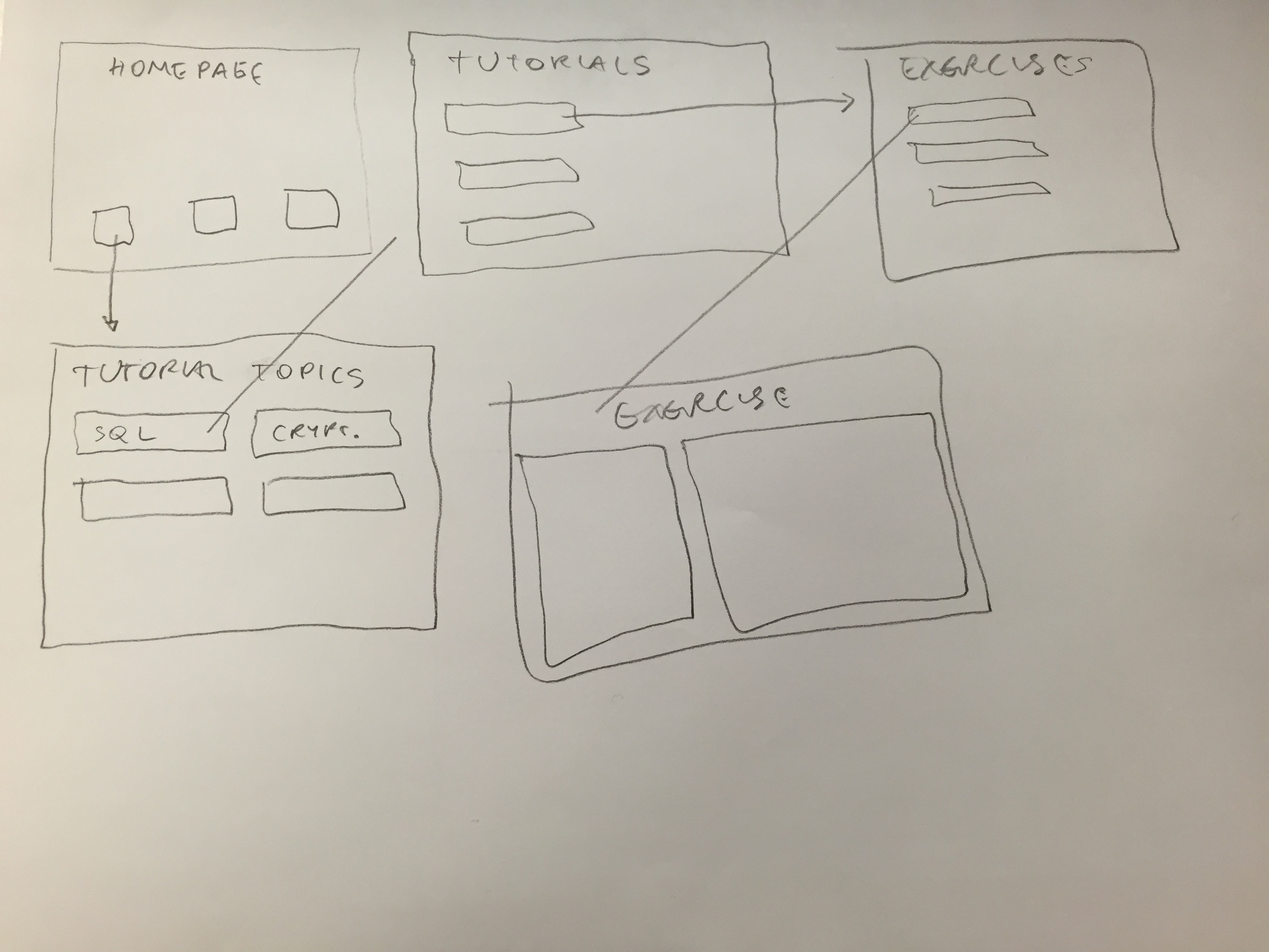
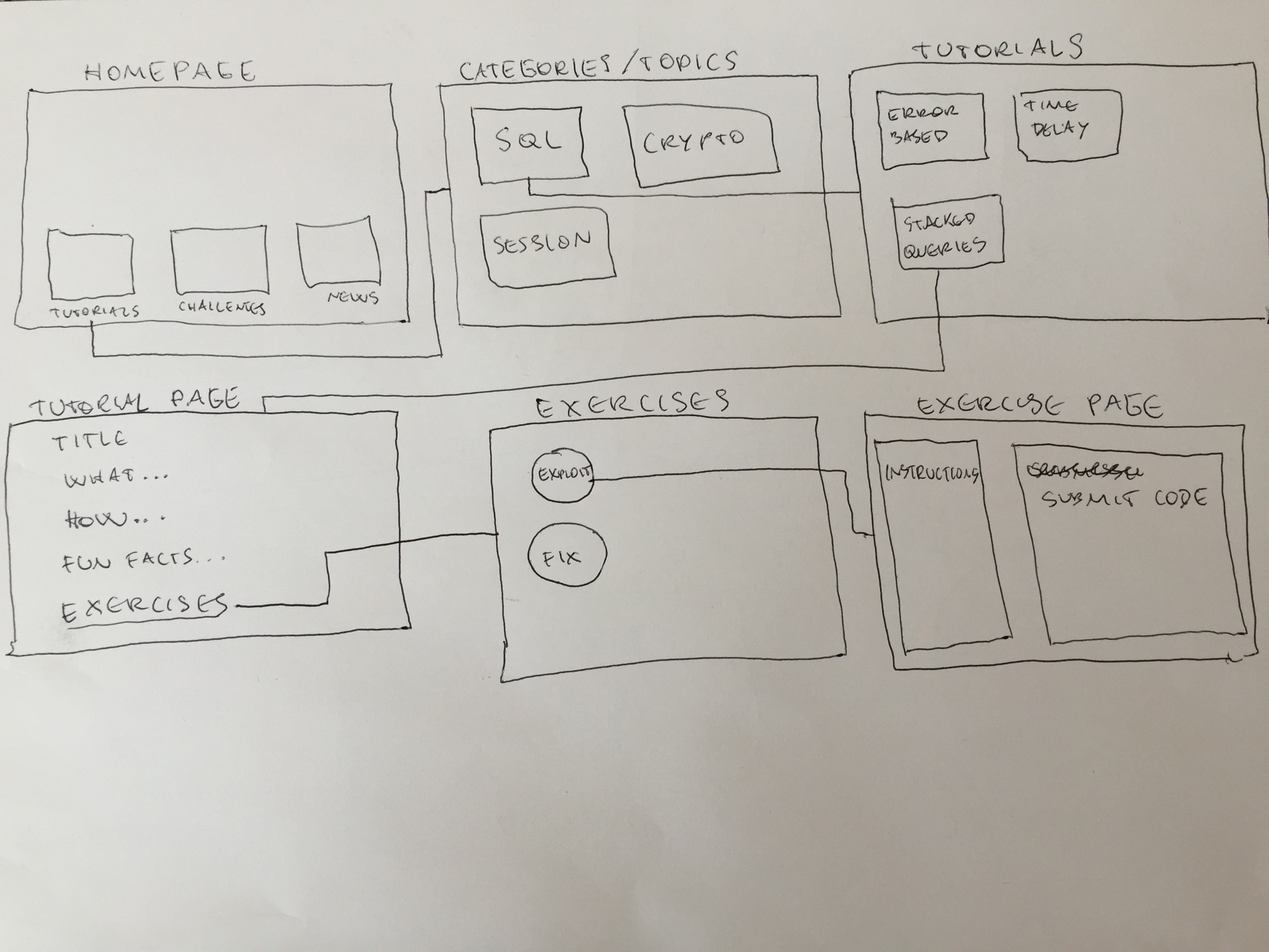
Update UserController.js and Tutorial_Architecture.jpg
Updated architecture diagram to add missing section.

Updated UserController to also handle login. For example:

1. Create a test user/password using following URL:

localhost:1337/user/create?username=logintest&password=test1234

2. Attempt to login as user not in database:

localhost:1337/user/login?username=wronglogin&password=test1234

returns
{
  "error": "User not found"
}

3. Attempt to login with incorrect password:

localhost:1337/user/login?username=logintest&password=wrongpassword

returns
{
  "error": "Invalid password"
}

3. Login with correct username/password:

http://localhost:1337/user/login?username=logintest&password=test1234

returns
[
  {
    "username": "logintest",
    "password":
"$2a$10$Zevq7rIzqMpbWvTO57JNSuPg4IE1qV3q1p8NUTCYV/sbHuH.ogY9i",
    "createdAt": "2015-03-01T21:47:00.192Z",
    "updatedAt": "2015-03-01T21:47:00.192Z",
    "id": "54f388d438ead24d206cc8ed"
  }
]

diff --git a/Phase2/infosec/api/controllers/UserController.js b/Phase2/infosec/api/controllers/UserController.js
@@ -10,33 +10,43 @@ module.exports = {
 	login: function (req, res) {
 		var bcrypt = require('bcrypt-nodejs');
 
-		User.findOneByUser(req.body.user).exec(function (err, user) {
+		// Search database for provided username
+		User.find({username : req.param('username')}).exec(function (err, user) {
+			// If we cannot connect to database, return error
 			if (err) {
-				res.json({ error: 'DB error' }, 500)
+				return res.status(500).json({ error: 'DB error' });
 			};
 
-			if (user) {
-				bcrypt.compare(req.body.password, user.password, function (err, match) {
+			// Check if we find a username matching the provided username
+			if (user.length != 0) {
+				// Encrypt plaintext provided password and compare this against the hashed password
+				// stored in the database
+				bcrypt.compare(req.param('password'), user[0].password, function (err, match) {
+
+					// If there was an issue encrypting or comparing the passwords, return an error
 					if (err){
-						res.json({ error: 'Server error' }, 500);
+						return res.status(500).json({ error: 'Server error' });
 					}
 
-					// If the user/password provided is correct
+					// If the username/password provided is correct, save user's id in the session
+					// and return user's information as JSON
 					if (match) {
 						req.session.user = user.id;
 						res.json(user);
 					}
-					// Otherwise, user/password provided is incorrect
+					
+					// Otherwise, username/password provided is incorrect so return an error
 					else{
 						if (req.session.user) {
 							req.session.user = null;
 						}
-						res.json({ error: 'Invalid password' }, 400);
+						return res.status(400).json({ error: 'Invalid password' });
 					}
 				});
 			}
+			// Otherwise, provided username does not exist in database
 			else {
-				res.json({ error: 'User not found' }, 404);
+				return res.status(404).json({ error: 'User not found' });
 			}
 		});
 	}
